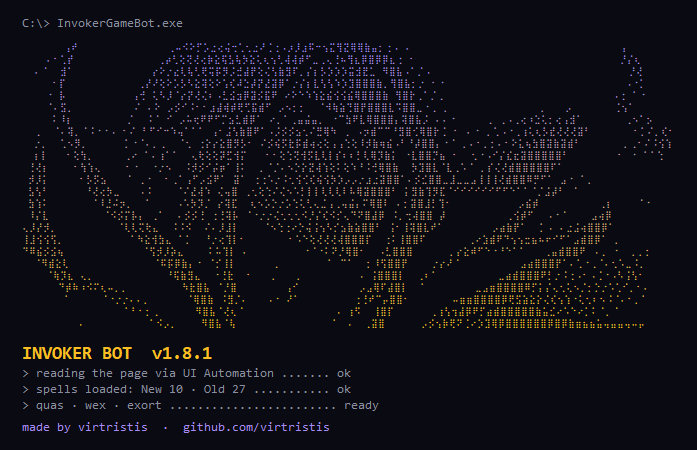
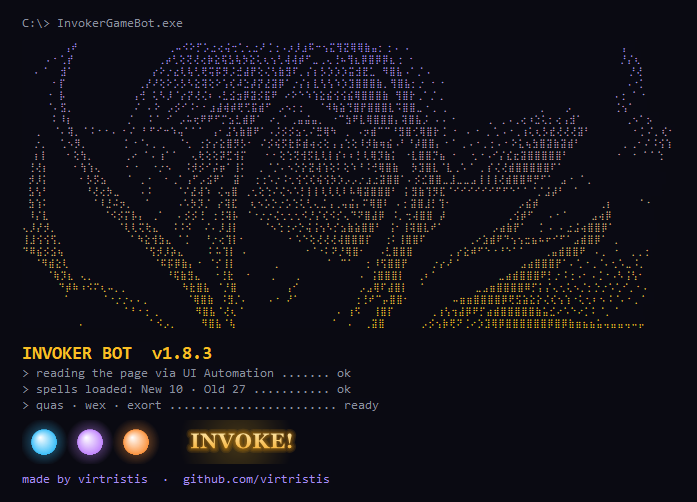
v1.8.3: intro finale (Quas, Wex, Exort, INVOKE!), Sun Strike on exit, painted Invoker in the header, site in ES and ZH, practice GIF

diff --git a/README.ru.md b/README.ru.md
@@ -21,7 +21,8 @@
 - **Трей и компактный режим**: окно прячется, а маленький оверлей показывает, что делает бот
 - Своя **клавиша старт/стоп** (по умолчанию F1) и свои клавиши Q/W/E/R
 - Звук и уведомление Windows, когда прогон закончен: **5 встроенных звуков, звук Windows или свой файл и ползунок громкости** (кнопка 🔊 рядом с переключателем)
-- **Заставка**: при запуске окно в стиле консоли рисует Инвокера точками Брайля (клик или Esc — пропустить, `intro=0` в `invoker_bot.ini` — выключить)
+- **Заставка**: при запуске окно в стиле консоли рисует Инвокера точками Брайля, зажигает Quas · Wex · Exort и кастует **INVOKE!**, а потом «втягивается» в главное окно (клик или Esc — пропустить, `intro=0` в `invoker_bot.ini` — выключить)
+- **Sun Strike при выходе**: при закрытии на окно падает Sun Strike — золотой круг-прицел, столб света, искры, и окно сгорает
 - Проверка обновлений при запуске и **обновление в один клик**: нажми на строку в шапке, программа скачает новый `.exe`, проверит SHA-256 и перезапустится
 - Тёмный интерфейс на **English, Русский, Español, 中文**
 - **3 цветовые темы** (фиолетовая / синяя / золотая) и **вертикальная или горизонтальная раскладка**: переключаются точками и кнопкой ⇆ в шапке. Кнопки подсвечиваются при наведении, переключатели плавно анимируются

diff --git a/CHANGELOG.md b/CHANGELOG.md
@@ -2,9 +2,11 @@
 
 All notable changes to this project are documented here.
 
-## [Unreleased]
+## [1.8.3] - 2026-10-09
 
 ### Added
+- **A new intro finale**: after the portrait, Quas · Wex · Exort light up one by one, **INVOKE!** flashes, and the intro folds into the main window instead of just fading out.
+- **Sun Strike on exit**: closing the window (the × button or Alt+F4) drops a Sun Strike on it: a golden target circle, a pillar of light, sparks, and the window burns away.
 - **Invoker in the header**: a painted Invoker with the Quas and Exort orbs fills the empty middle of the header in the horizontal layout and takes the place of the three small orbs in the vertical one (`assets/header.png`, built into the `.exe`).
 - **The website in Español and 中文**, next to English and Русский.
 - **A GIF of a full practice run** in the README and on the website. It is made by the app itself: `--selftest drill-gif` plays a practice run on a virtual clock and saves the frames, `tools/make-gif.ps1` (with `tools/GifWriter.cs`) turns them into a small GIF.
@@ -17,4 +19,5 @@ All notable changes to this project are documented here.
 - `tools/make-banner.ps1` and `tools/make-docs-images.ps1` build these images from the app's screenshots; the self-test `--selftest shot-stages` renders the coach overlay stages.
 - Window screenshots in self-tests are now reliable on a hidden desktop as well.
 
+[1.8.3]: https://github.com/virtristis/invoker-game-bot/releases/tag/v1.8.3
 [1.8.2]: https://github.com/virtristis/invoker-game-bot/releases/tag/v1.8.2

diff --git a/README.es.md b/README.es.md
@@ -21,7 +21,8 @@ Un bot y **entrenador** en AutoHotkey v2 para el entrenador [invoker-game.com](h
 - **Bandeja / modo compacto**: la ventana se oculta y una pequeña superposición muestra lo que hace el bot
 - **Tecla de inicio/parada** personalizable (F1 por defecto) y teclas Q/W/E/R personalizadas
 - Un sonido y un aviso de Windows al terminar la partida: **5 sonidos incluidos, el sonido de Windows o tu propio archivo, con control de volumen** (botón 🔊 junto al interruptor)
-- **Intro**: al iniciar, una ventana tipo consola dibuja a Invoker con puntos braille (clic o Esc para saltarla, `intro=0` en `invoker_bot.ini` la desactiva)
+- **Intro**: al iniciar, una ventana tipo consola dibuja a Invoker con puntos braille, enciende Quas · Wex · Exort y lanza **INVOKE!**, y luego se pliega en la ventana principal (clic o Esc para saltarla, `intro=0` en `invoker_bot.ini` la desactiva)
+- **Sun Strike al salir**: al cerrar la ventana cae un Sun Strike sobre ella: un círculo dorado, una columna de luz, chispas, y la ventana se consume
 - Comprueba si hay actualizaciones al iniciar y **se actualiza con un clic**: pulsa la línea de la cabecera, la app descarga el nuevo `.exe`, comprueba su SHA-256 y se reinicia
 - Interfaz oscura en **English, Русский, Español, 中文**
 - **3 temas de color** (violeta / azul / dorado) y **diseño vertical u horizontal**: se cambian con los puntos y el botón ⇆ de la cabecera. Los botones se iluminan al pasar el ratón y los interruptores se deslizan con suavidad

diff --git a/README.md b/README.md
@@ -21,7 +21,8 @@ An AutoHotkey v2 bot and **coach** for the [invoker-game.com](https://invoker-ga
 - **Tray / compact mode**: hide the window, and a small overlay shows what the bot is doing
 - Custom **start/stop hotkey** (F1 by default) and custom key bindings
 - A sound and a Windows notification when a run is finished: **pick from 5 built-in sounds, the Windows sound or your own file, with a volume slider** (🔊 button next to the switch)
-- **Intro**: on startup a console-style window draws Invoker in braille dots (click or Esc to skip, `intro=0` in `invoker_bot.ini` turns it off)
+- **Intro**: on startup a console-style window draws Invoker in braille dots, lights up Quas · Wex · Exort and casts **INVOKE!**, then folds into the main window (click or Esc to skip, `intro=0` in `invoker_bot.ini` turns it off)
+- **Sun Strike on exit**: closing the window drops a Sun Strike on it: a golden target circle, a pillar of light, sparks, and the window burns away
 - Checks for updates on startup and **updates in one click**: click the line in the header, the app downloads the new `.exe`, checks its SHA-256 and restarts
 - Dark interface in **English, Русский, Español, 中文**
 - **3 colour themes** (violet / blue / gold) and a **vertical or horizontal layout**: switch them with the dots and the ⇆ button in the header. Buttons light up under the mouse and switches slide smoothly

diff --git a/README.zh.md b/README.zh.md
@@ -21,7 +21,8 @@
 - **托盘 / 紧凑模式**：隐藏主窗口，只用一个小浮窗显示机器人的操作
 - 自定义**开始/停止快捷键**（默认 F1）和 Q/W/E/R 按键
 - 完成时的提示音和 Windows 通知：**5 种内置声音、Windows 提示音或自定义文件，并可调节音量**（开关旁的 🔊 按钮）
-- **开场动画**：启动时在控制台风格的窗口中用盲文点阵画出卡尔（点击或按 Esc 跳过，在 `invoker_bot.ini` 中设置 `intro=0` 可关闭）
+- **开场动画**：启动时在控制台风格的窗口中用盲文点阵画出卡尔，依次点亮 Quas · Wex · Exort 并施放 **INVOKE!**，然后收拢成主窗口（点击或按 Esc 跳过，在 `invoker_bot.ini` 中设置 `intro=0` 可关闭）
+- **退出时的天火（Sun Strike）**：关闭窗口时一道天火落在窗口上：金色瞄准圈、光柱、火花，窗口随之燃尽
 - 启动时检查更新，**一键更新**：点击标题栏中的提示，程序会下载新的 `.exe`、校验 SHA-256 并自动重启
 - 深色界面，支持 **English、Русский、Español、中文**
 - **3 种配色主题**（紫 / 蓝 / 金）以及**竖向或横向布局**：用标题栏中的圆点和 ⇆ 按钮切换。鼠标悬停时按钮会高亮，开关带有平滑动画
